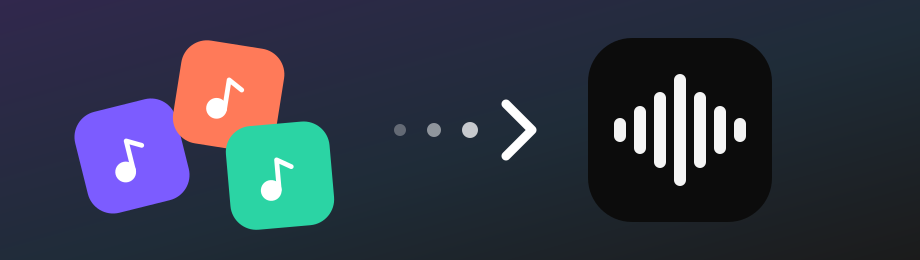
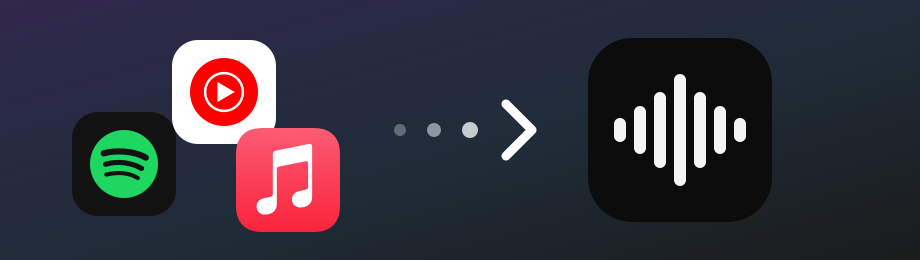
Apple Music's lists come in too, and the offer shows whose they are
A playlist or an album of Apple Music is read from its own page. The
card's picture carries the three services' marks. A song by somebody else
is no longer taken for the one wanted because its name and length agree,
and a cut of the very length wanted is taken though its name leaves
unsaid that it is live.

Changed region(s): [[0.0609, 0.1538, 0.3957, 0.8923]]

diff --git a/crates/app/src/import.rs b/crates/app/src/import.rs
@@ -6,41 +6,69 @@ use surco_core::transfer::{self, Source, Wanted};
 use surco_core::Track;
 use surco_youtube::YouTube;
 
-/// Spotify's page for embedded players answers a browser, and nothing else, with the list.
+/// The pages read here answer a browser, and nothing else, with the list.
 const BROWSER: &str = "Mozilla/5.0 (Macintosh; Intel Mac OS X 10_15_7) AppleWebKit/537.36 (KHTML, like Gecko) Chrome/126.0.0.0 Safari/537.36";
 /// How many songs are looked for at a time: each is a search, and the catalog counts them.
 const AT_A_TIME: usize = 4;
 
+/// What makes a list's name and its songs out of the page that shows it.
+type Reader = fn(&str) -> Option<(String, Vec<Wanted>)>;
+
 /// The list a link names, as the catalog has it: its name, its songs in order, and how
 /// many of them the catalog does not have.
 pub async fn list(youtube: &YouTube, link: &str) -> Result<(String, Vec<Track>, usize), String> {
-    let (name, tracks, missed) = match transfer::source(link).ok_or("Ese enlace no es de una playlist de Spotify ni de YouTube Music.")? {
+    // The others name their songs; the catalog's own lists them as it has them.
+    let (address, read): (String, Reader) = match transfer::source(link).ok_or("Ese enlace no es de una playlist de Spotify, Apple Music ni YouTube Music.")? {
         Source::YouTube(id) => {
             let (name, tracks) = youtube.playlist_named(&id).await.map_err(|_| "No pudimos leer esa playlist. Tiene que ser pública.")?;
-            (name, tracks, 0)
+            return if tracks.is_empty() { Err("Esa playlist no tiene canciones.".to_owned()) } else { Ok((name, tracks, 0)) };
         }
-        Source::Spotify(kind, id) => {
-            let page = youtube.http().get(format!("https://open.spotify.com/embed/{kind}/{id}")).header("User-Agent", BROWSER);
-            let page = page.send().await.map_err(|error| error.to_string())?.text().await.map_err(|error| error.to_string())?;
-            let (name, wanted) = spotify(&page).ok_or("Spotify no mostró esa lista. Tiene que ser pública.")?;
-            let mut tracks: Vec<Track> = Vec::new();
-            for some in wanted.chunks(AT_A_TIME) {
-                let found = join_all(some.iter().map(|song| async move { transfer::pick(song, &youtube.songs(&song.query()).await.ok()?).cloned() })).await;
-                // Two songs that turn out to be the same one are it once.
-                for track in found.into_iter().flatten() {
-                    if tracks.iter().all(|taken| taken.id != track.id) {
-                        tracks.push(track);
-                    }
-                }
-            }
-            let missed = wanted.len() - tracks.len();
-            (name, tracks, missed)
-        }
+        Source::Spotify(kind, id) => (format!("https://open.spotify.com/embed/{kind}/{id}"), spotify),
+        Source::Apple(address) => (address, apple),
     };
+    let page = youtube.http().get(address).header("User-Agent", BROWSER);
+    let page = page.send().await.map_err(|error| error.to_string())?.text().await.map_err(|error| error.to_string())?;
+    let (name, wanted) = read(&page).ok_or("No pudimos leer esa lista. Tiene que ser pública.")?;
+    let mut tracks: Vec<Track> = Vec::new();
+    for some in wanted.chunks(AT_A_TIME) {
+        let found = join_all(some.iter().map(|song| async move { transfer::pick(song, &youtube.songs(&song.query()).await.ok()?).cloned() })).await;
+        // Two songs that turn out to be the same one are it once.
+        for track in found.into_iter().flatten() {
+            if tracks.iter().all(|taken| taken.id != track.id) {
+                tracks.push(track);
+            }
+        }
+    }
     if tracks.is_empty() {
         return Err("No encontramos ninguna de las canciones de esa lista.".to_owned());
     }
+    let missed = wanted.len() - tracks.len();
     Ok((name, tracks, missed))
+}
+
+/// The name and the songs of the list a page of Apple Music shows. The page carries its
+/// name for search engines and its songs for its own script.
+fn apple(page: &str) -> Option<(String, Vec<Wanted>)> {
+    let script = |opening: &str| Some(page.split_once(opening)?.1.split_once('>')?.1.split_once("</script>")?.0);
+    let said = |opening: &str| serde_json::from_str::<serde_json::Value>(script(opening)?).ok();
+    let name = ["<script id=schema:music-playlist", "<script id=schema:music-album"].into_iter().find_map(|about| said(about)?["name"].as_str().map(str::to_owned))?;
+    let mut songs = Vec::new();
+    songs_in(&said(r#"id="serialized-server-data""#)?, &mut songs);
+    Some((name, songs))
+}
+
+/// Every song in what a page carries, wherever it is in it: what has a title, an artist
+/// and a length.
+fn songs_in(value: &serde_json::Value, songs: &mut Vec<Wanted>) {
+    use serde_json::Value;
+    match value {
+        Value::Object(fields) => match (fields.get("title").and_then(Value::as_str), fields.get("artistName").and_then(Value::as_str), fields.get("duration").and_then(Value::as_u64)) {
+            (Some(title), Some(artist), Some(duration_ms)) => songs.push(Wanted { title: title.to_owned(), artist: artist.to_owned(), duration_ms }),
+            _ => fields.values().for_each(|inner| songs_in(inner, songs)),
+        },
+        Value::Array(items) => items.iter().for_each(|inner| songs_in(inner, songs)),
+        _ => {}
+    }
 }
 
 /// The name and the songs of the list a page of Spotify's embedded player shows. The page
@@ -73,5 +101,15 @@ mod tests {
         assert_eq!(spotify(page), Some(("Viaje".into(), vec![song("Global Warming (feat. Sensato)", "Pitbull, Sensato", 85400), song("Sin autor", "", 0)])));
         assert_eq!(spotify("<html>Update your browser</html>"), None);
         assert_eq!(spotify(r#"<script id="__NEXT_DATA__">{"props":{}}</script>"#), None);
+    }
+
+    #[test]
+    fn apple_musics_page_names_the_list_and_carries_its_songs_wherever_they_are() {
+        let page = r#"<script id=schema:music-album type="application/ld+json">{"name":"Música de Fondo"}</script>
+            <script type="application/json" id="serialized-server-data">[{"data":{"title":"not a song","sections":[{"items":[
+            {"title":"Sombras","artistName":"Zoé","duration":252322},{"title":"Soñé","artistName":"Zoé","duration":226627}]}]}}]</script>"#;
+        let song = |title: &str, duration_ms| Wanted { title: title.into(), artist: "Zoé".into(), duration_ms };
+        assert_eq!(apple(page), Some(("Música de Fondo".into(), vec![song("Sombras", 252322), song("Soñé", 226627)])));
+        assert_eq!(apple("<html></html>"), None);
     }
 }

diff --git a/crates/core/src/transfer.rs b/crates/core/src/transfer.rs
@@ -9,6 +9,8 @@ use crate::discover::plain;
 pub enum Source {
     /// Spotify's: a `playlist` or an `album`.
     Spotify(&'static str, String),
+    /// Apple Music's, playlist or album: the address of its page.
+    Apple(String),
     /// YouTube's or YouTube Music's.
     YouTube(String),
 }
@@ -26,6 +28,10 @@ pub fn source(link: &str) -> Option<Source> {
         let said = parts.next()?;
         let kind = ["playlist", "album"].into_iter().find(|kind| *kind == said)?;
         return Some(Source::Spotify(kind, id(parts.next()?)?));
+    }
+    if let Some((_, path)) = link.split_once("music.apple.com/") {
+        let path = path.split(['?', '#']).next()?;
+        return (path.contains("/playlist/") || path.contains("/album/")).then(|| Source::Apple(format!("https://music.apple.com/{path}")));
     }
     if link.contains("youtube.com/") || link.contains("youtu.be/") {
         return Some(Source::YouTube(id(link.split(['?', '&']).find_map(|pair| pair.strip_prefix("list="))?)?));
@@ -54,8 +60,9 @@ const RENDITIONS: [&[&str]; 6] = [
     &["cover", "tribute", "tributo"],
 ];
 
-/// How good a match has to be to be taken, out of 1.
-const CLOSE_ENOUGH: f32 = 0.6;
+/// How good a match has to be to be taken, out of 1: more than a song of the same name
+/// and length by somebody else comes to, and no more than another cut of the song does.
+const CLOSE_ENOUGH: f32 = 0.7;
 
 impl Wanted {
     /// What to ask the catalog for: whose it is first, then its name.
@@ -64,9 +71,11 @@ impl Wanted {
     }
 
     fn likeness(&self, track: &Track) -> f32 {
-        let title = alike(&plain(name(&self.title)), &plain(name(&track.title)));
-        let (ours, theirs) = (plain(first(&self.artist)), plain(&track.artist));
-        let artist = if ours.is_empty() { 0.5 } else { f32::from(theirs.contains(&ours) || alike(&ours, &plain(first(&track.artist))) >= 0.8) };
+        let title = alike(&bare(name(&self.title)), &bare(name(&track.title)));
+        // Catalogs credit a song by several in their own order: any of ours among theirs will do.
+        let theirs = bare(&track.artist);
+        let mut ours = self.artist.split([',', '&']).map(bare).filter(|one| !one.is_empty()).peekable();
+        let artist = if ours.peek().is_none() { 0.5 } else { f32::from(ours.any(|one| theirs.contains(&one) || alike(&one, &theirs) >= 0.8)) };
         // Catalogs trim silence differently; past a few seconds it is another cut.
         let length = match self.duration_ms.abs_diff(track.duration_ms) / 1000 {
             _ if self.duration_ms == 0 || track.duration_ms == 0 => 0.5,
@@ -78,7 +87,9 @@ impl Wanted {
         };
         let (ours, theirs) = (self.title.to_lowercase(), track.title.to_lowercase());
         let other = RENDITIONS.iter().filter(|words| words.iter().any(|word| ours.contains(word)) != words.iter().any(|word| theirs.contains(word))).count();
-        title * 0.45 + length * 0.35 + artist * 0.2 - 0.3 * other as f32
+        // Of the very length wanted, it is the recording, whatever its title leaves unsaid.
+        let other = if length == 1.0 { 0 } else { other };
+        title * 0.4 + length * 0.25 + artist * 0.35 - 0.3 * other as f32
     }
 }
 
@@ -92,6 +103,21 @@ pub fn pick<'a>(wanted: &Wanted, found: &'a [Track]) -> Option<&'a Track> {
 /// A list as text, a song to a line: what the services that carry lists between apps read.
 pub fn as_text(tracks: &[Track]) -> String {
     tracks.iter().map(|track| format!("{} - {}", track.artist, track.title)).collect::<Vec<_>>().join("\n")
+}
+
+/// A name as two catalogs' spellings of it are compared: `plain`, and without its accents.
+fn bare(name: &str) -> String {
+    let unaccented = |c| match c {
+        'á' | 'à' | 'ä' | 'â' | 'ã' => 'a',
+        'é' | 'è' | 'ë' | 'ê' => 'e',
+        'í' | 'ì' | 'ï' | 'î' => 'i',
+        'ó' | 'ò' | 'ö' | 'ô' | 'õ' => 'o',
+        'ú' | 'ù' | 'ü' | 'û' => 'u',
+        'ñ' => 'n',
+        'ç' => 'c',
+        other => other,
+    };
+    plain(name).chars().map(unaccented).collect()
 }
 
 /// The first of several artists written as one text.
@@ -131,9 +157,10 @@ mod tests {
         let spotify = |kind, id: &str| Some(Source::Spotify(kind, id.into()));
         assert_eq!(source(" https://open.spotify.com/intl-es/playlist/37i9dQZF1DXcBWIGoYBM5M?si=abc "), spotify("playlist", "37i9dQZF1DXcBWIGoYBM5M"));
         assert_eq!(source("https://open.spotify.com/album/4aawyAB9vmqN3uQ7FjRGTy"), spotify("album", "4aawyAB9vmqN3uQ7FjRGTy"));
+        assert_eq!(source("https://music.apple.com/us/playlist/todays-hits/pl.f4d1?uo=4"), Some(Source::Apple("https://music.apple.com/us/playlist/todays-hits/pl.f4d1".into())));
         assert_eq!(source("https://music.youtube.com/playlist?list=PL_a-b1&si=x"), Some(Source::YouTube("PL_a-b1".into())));
         assert_eq!(source("https://www.youtube.com/watch?v=abc&list=OLAK5uy_x"), Some(Source::YouTube("OLAK5uy_x".into())));
-        for not_one in ["https://open.spotify.com/track/abc", "https://open.spotify.com/playlist/", "https://music.youtube.com/watch?v=abc", "labios rotos", "surco://lista/a?nombre=x"] {
+        for not_one in ["https://music.apple.com/us/artist/zoe/123", "https://open.spotify.com/track/abc", "https://open.spotify.com/playlist/", "https://music.youtube.com/watch?v=abc", "labios rotos", "surco://lista/a?nombre=x"] {
             assert_eq!(source(not_one), None, "{not_one}");
         }
     }
@@ -150,6 +177,11 @@ mod tests {
         ];
         assert_eq!(pick(&wanted, &found).map(|track| track.id.as_str()), Some("own"));
         assert_eq!(pick(&wanted, &found[..1]), None, "another rendition is not the song");
+        assert_eq!(pick(&wanted, &found[1..2]), None, "nor is somebody else's, of the same name and length");
+        let unsaid = Wanted { title: "Labios Rotos".into(), artist: "Zoé".into(), duration_ms: 262_000 };
+        assert_eq!(pick(&unsaid, &found).map(|track| track.id.as_str()), Some("live"), "a live cut of the very length is the one, though its name does not say so");
+        let spelt = Wanted { title: "Labios Rotos".into(), artist: "Otro & Zoe".into(), duration_ms: 0 };
+        assert_eq!(pick(&spelt, &found).map(|track| track.id.as_str()), Some("own"), "an accent or the order of its artists apart");
         assert_eq!(pick(&wanted, &found[3..]), None);
         let live = Wanted { title: "Labios Rotos - En Vivo".into(), artist: "Zoé".into(), duration_ms: 0 };
         assert_eq!(pick(&live, &found).map(|track| track.id.as_str()), Some("live"));

diff --git a/crates/app/src/view.rs b/crates/app/src/view.rs
@@ -261,9 +261,9 @@ fn import_dialog(state: &State, window_tree: Element, width: f32, palette: Compo
     let Some(link) = &state.importing else { return window_tree };
     let field = TextField::new("import-link", link, "https://open.spotify.com/playlist/…", palette).size(ControlSize::Regular).render();
     let about = if state.import_unknown {
-        "Ese enlace no es de una playlist de Spotify ni de YouTube Music."
+        "Ese enlace no es de una playlist de Spotify, Apple Music ni YouTube Music."
     } else {
-        "De Spotify (playlist o álbum, hasta 100 canciones) o de YouTube Music. Tiene que ser pública."
+        "De Spotify (hasta 100 canciones), Apple Music o YouTube Music: una playlist o un álbum, que sean públicos."
     };
     let cancel = Button::new("import-cancel", "Cancelar", palette).variant(ButtonVariant::Outline).size(ControlSize::Regular).render();
     let go = Button::new("import-go", "Importar", palette).size(ControlSize::Regular).render();
@@ -307,7 +307,7 @@ fn import_card(width: f32, palette: ComponentPalette) -> Element {
         None => away,
     };
     let title = Text::new("Traé tu música de otras apps", raised).render();
-    let about = Text::new("Tus playlists de Spotify y YouTube Music, con su enlace.", raised).role(TextRole::Caption).muted().render();
+    let about = Text::new("Tus playlists de Spotify, Apple Music y YouTube Music, con su enlace.", raised).role(TextRole::Caption).muted().render();
     let go = Button::new("import-open", "Importar", raised).size(ControlSize::Compact).render();
     Element::panel(Element::column(vec![top, title, about, Element::row(vec![go])]).gap(8.0)).padding(12.0).background(CHOSEN).radius(RadiusRole::Card.px())
 }
@@ -1262,7 +1262,7 @@ fn settings_page(state: &State, width: f32, palette: ComponentPalette) -> Elemen
         group(
             "Biblioteca",
             vec![
-                row("Importar música de otras apps", "Trae playlists de Spotify y YouTube Music con su enlace.").trailing(action("import-open", "Importar", true)).stacked(compact).render(),
+                row("Importar música de otras apps", "Trae playlists de Spotify, Apple Music y YouTube Music con su enlace.").trailing(action("import-open", "Importar", true)).stacked(compact).render(),
             ],
         ),
         group(
